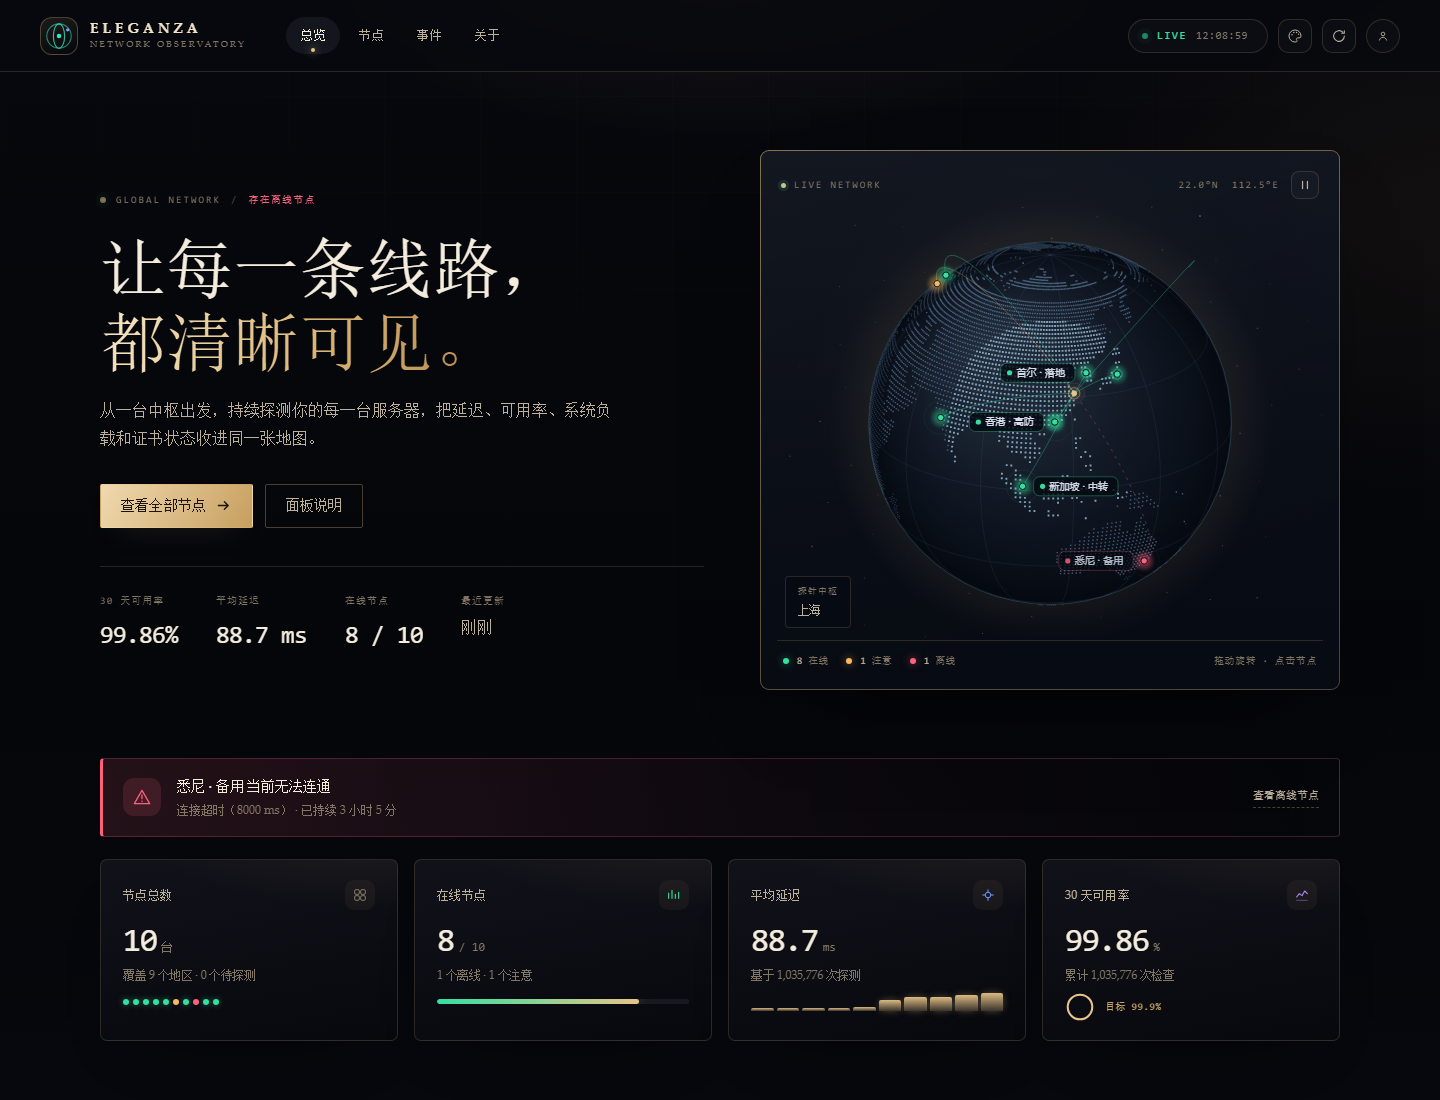
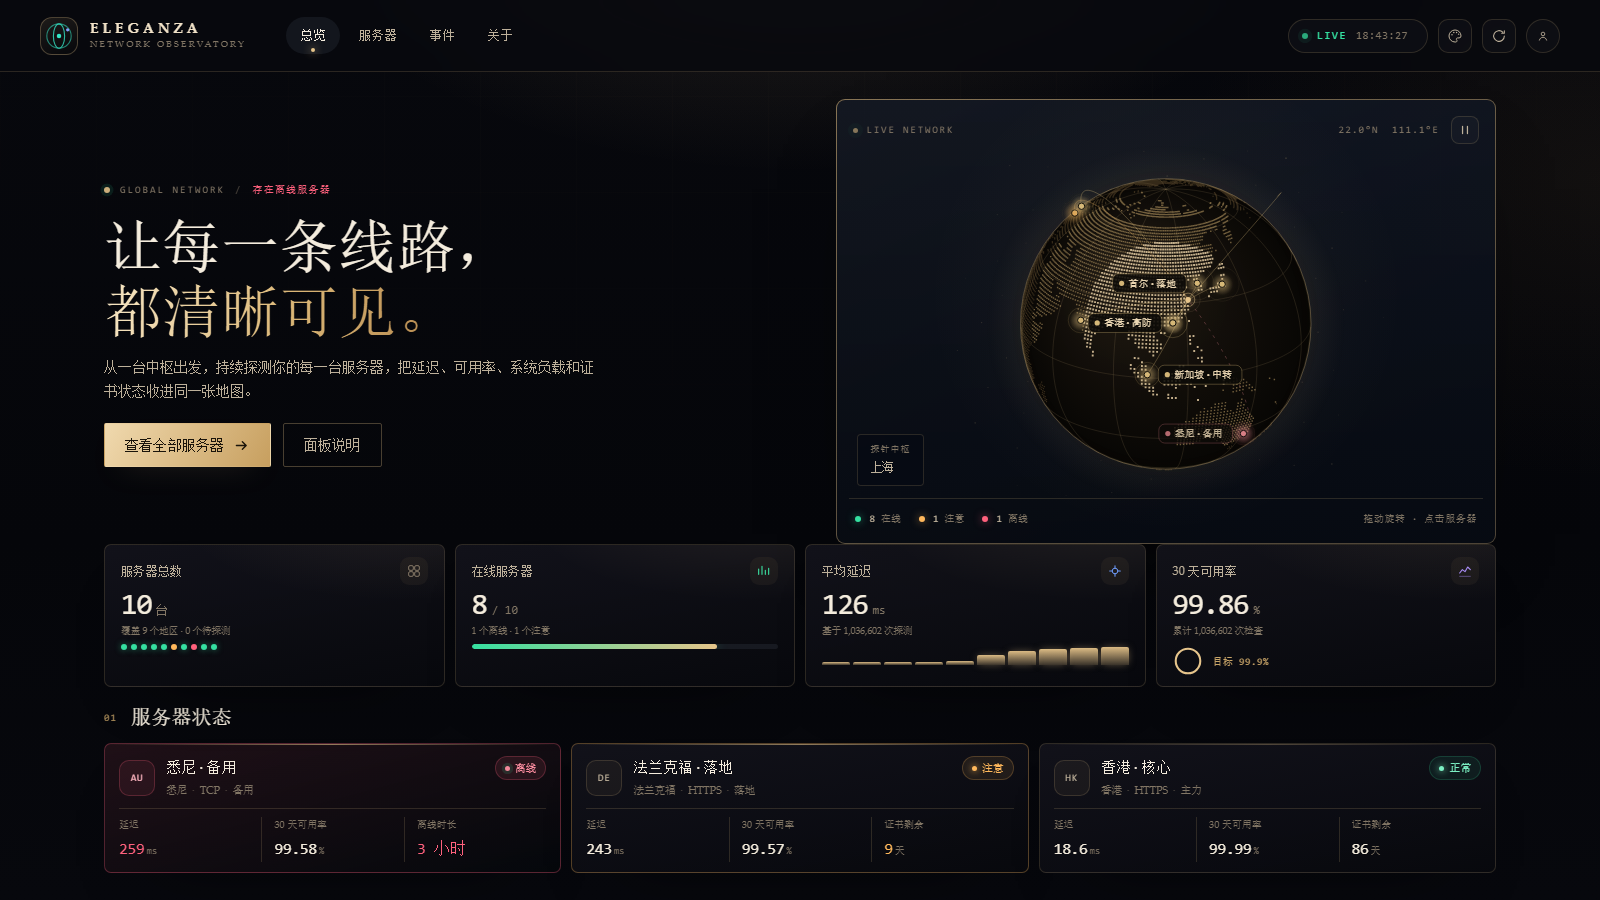
globe: match visual style presets and accent

diff --git a/public/globe.js b/public/globe.js
@@ -13,6 +13,65 @@ const STATUS_TEXT = {
   pending: '待探测',
 };
 
+const GLOBE_PALETTES = {
+  cosmos: {
+    starsRgb: '196, 214, 240',
+    starAlpha: 1,
+    ocean: ['rgba(30, 50, 76, 0.55)', 'rgba(12, 22, 38, 0.72)', 'rgba(4, 8, 16, 0.92)'],
+    rim: 'rgba(120, 190, 210, 0.22)',
+    graticule: 'rgba(120, 158, 198, 0.09)',
+    graticuleRim: 'rgba(120, 158, 198, 0.05)',
+    land: ['rgba(100, 140, 182, 0.3)', 'rgba(128, 170, 212, 0.48)', 'rgba(172, 214, 242, 0.72)'],
+    labelBg: 'rgba(5, 10, 18, 0.82)',
+    labelText: 'rgba(226, 236, 248, 0.94)',
+    markerStroke: 'rgba(4, 10, 18, 0.9)',
+    font: '10px "Inter", "PingFang SC", "Microsoft YaHei", sans-serif',
+    status: STATUS_COLOR,
+  },
+  paper: {
+    starsRgb: '139, 112, 76',
+    starAlpha: 0.3,
+    ocean: ['rgba(252, 247, 236, 0.95)', 'rgba(242, 231, 211, 0.96)', 'rgba(226, 209, 181, 0.98)'],
+    rim: 'rgba(126, 96, 58, 0.35)',
+    graticule: 'rgba(126, 96, 58, 0.13)',
+    graticuleRim: 'rgba(126, 96, 58, 0.08)',
+    land: ['rgba(136, 111, 78, 0.34)', 'rgba(98, 77, 52, 0.5)', 'rgba(66, 51, 34, 0.7)'],
+    labelBg: 'rgba(253, 249, 241, 0.94)',
+    labelText: 'rgba(50, 41, 29, 0.96)',
+    markerStroke: 'rgba(251, 247, 239, 0.95)',
+    font: '10px "Iowan Old Style", "Palatino Linotype", Georgia, "Songti SC", serif',
+    status: { online: '#2f8f63', warning: '#b77a20', offline: '#c04a58', pending: '#6b6bb0' },
+  },
+  terminal: {
+    starsRgb: '108, 255, 174',
+    starAlpha: 0.7,
+    ocean: ['rgba(4, 20, 12, 0.9)', 'rgba(1, 11, 6, 0.96)', 'rgba(0, 4, 2, 0.99)'],
+    rim: 'rgba(96, 255, 158, 0.3)',
+    graticule: 'rgba(96, 240, 150, 0.12)',
+    graticuleRim: 'rgba(96, 240, 150, 0.07)',
+    land: ['rgba(54, 140, 86, 0.32)', 'rgba(82, 225, 140, 0.48)', 'rgba(158, 255, 194, 0.78)'],
+    labelBg: 'rgba(1, 10, 5, 0.9)',
+    labelText: 'rgba(190, 255, 214, 0.96)',
+    markerStroke: 'rgba(1, 9, 4, 0.95)',
+    font: '10px "JetBrains Mono", "SFMono-Regular", Consolas, monospace',
+    status: { online: '#7cffb2', warning: '#ffd166', offline: '#ff6b7d', pending: '#5eead4' },
+  },
+  gilded: {
+    starsRgb: '232, 200, 146',
+    starAlpha: 0.45,
+    ocean: ['rgba(34, 27, 18, 0.9)', 'rgba(18, 14, 9, 0.96)', 'rgba(7, 6, 4, 0.99)'],
+    rim: 'rgba(230, 196, 138, 0.32)',
+    graticule: 'rgba(230, 196, 138, 0.12)',
+    graticuleRim: 'rgba(230, 196, 138, 0.07)',
+    land: ['rgba(142, 112, 66, 0.34)', 'rgba(208, 173, 112, 0.5)', 'rgba(246, 221, 176, 0.78)'],
+    labelBg: 'rgba(13, 11, 8, 0.9)',
+    labelText: 'rgba(246, 225, 188, 0.96)',
+    markerStroke: 'rgba(10, 8, 6, 0.95)',
+    font: '10px "Cormorant Garamond", "Iowan Old Style", Georgia, serif',
+    status: { online: '#d6b878', warning: '#e0a85a', offline: '#d97f86', pending: '#b7a6d9' },
+  },
+};
+
 const DEG = Math.PI / 180;
 
 function decodeLand() {
@@ -106,6 +165,8 @@ export class Globe {
     this.ctx = canvas.getContext('2d');
     this.accent = options.accent || '#34e6c6';
     this.accentRgb = hexToRgb(this.accent);
+    this.style = options.style || 'cosmos';
+    this.palette = GLOBE_PALETTES[this.style] || GLOBE_PALETTES.cosmos;
     this.hub = options.hub || { lat: 31.23, lon: 121.47, name: '探针中枢' };
     this.onSelect = options.onSelect || (() => {});
     this.onCoordChange = options.onCoordChange || (() => {});
@@ -117,9 +178,9 @@ export class Globe {
     this.arcs = [];
     this.land = decodeLand();
     this.landBuckets = [
-      { coords: new Float32Array(this.land.length * 2), count: 0, size: 1.25, fill: 'rgba(100, 140, 182, 0.3)' },
-      { coords: new Float32Array(this.land.length * 2), count: 0, size: 1.45, fill: 'rgba(128, 170, 212, 0.48)' },
-      { coords: new Float32Array(this.land.length * 2), count: 0, size: 1.9, fill: 'rgba(172, 214, 242, 0.72)' },
+      { coords: new Float32Array(this.land.length * 2), count: 0, size: 1.25, fill: this.palette.land[0] },
+      { coords: new Float32Array(this.land.length * 2), count: 0, size: 1.45, fill: this.palette.land[1] },
+      { coords: new Float32Array(this.land.length * 2), count: 0, size: 1.9, fill: this.palette.land[2] },
     ];
     this.stars = Array.from({ length: 90 }, (_, index) => {
       const angle = (index * 2.399963) % (Math.PI * 2);
@@ -209,6 +270,20 @@ export class Globe {
   setAccent(hex) {
     this.accent = hex || '#34e6c6';
     this.accentRgb = hexToRgb(this.accent);
+    if (this.width && this.height) this.render(performance.now(), 0);
+  }
+
+  setTheme(style) {
+    this.style = GLOBE_PALETTES[style] ? style : 'cosmos';
+    this.palette = GLOBE_PALETTES[this.style];
+    this.landBuckets.forEach((bucket, index) => {
+      bucket.fill = this.palette.land[index];
+    });
+    if (this.width && this.height) this.render(performance.now(), 0);
+  }
+
+  statusColor(status) {
+    return this.palette.status?.[status] || STATUS_COLOR[status] || STATUS_COLOR.online;
   }
 
   setPaused(value) {
@@ -306,8 +381,8 @@ export class Globe {
 
     // distant stars
     for (const star of this.stars) {
-      const alpha = star.alpha * (0.65 + 0.35 * Math.sin(now / 1400 + star.ox * 9));
-      ctx.fillStyle = `rgba(196, 214, 240, ${alpha.toFixed(3)})`;
+      const alpha = star.alpha * this.palette.starAlpha * (0.65 + 0.35 * Math.sin(now / 1400 + star.ox * 9));
+      ctx.fillStyle = `rgba(${this.palette.starsRgb}, ${alpha.toFixed(3)})`;
       ctx.fillRect(cx + star.ox * r * 1.55, cy + star.oy * r * 1.55, star.size, star.size);
     }
 
@@ -323,9 +398,9 @@ export class Globe {
 
     // ocean
     const ocean = ctx.createRadialGradient(cx - r * 0.34, cy - r * 0.4, r * 0.08, cx, cy, r);
-    ocean.addColorStop(0, 'rgba(30, 50, 76, 0.55)');
-    ocean.addColorStop(0.55, 'rgba(12, 22, 38, 0.72)');
-    ocean.addColorStop(1, 'rgba(4, 8, 16, 0.92)');
+    ocean.addColorStop(0, this.palette.ocean[0]);
+    ocean.addColorStop(0.55, this.palette.ocean[1]);
+    ocean.addColorStop(1, this.palette.ocean[2]);
     ctx.beginPath();
     ctx.arc(cx, cy, r, 0, Math.PI * 2);
     ctx.fillStyle = ocean;
@@ -333,7 +408,7 @@ export class Globe {
 
     // rim
     ctx.save();
-    ctx.strokeStyle = 'rgba(120, 190, 210, 0.22)';
+    ctx.strokeStyle = this.palette.rim;
     ctx.lineWidth = 1;
     ctx.shadowColor = `rgba(${this.accentRgb}, 0.35)`;
     ctx.shadowBlur = 18;
@@ -385,7 +460,7 @@ export class Globe {
 
   drawGraticule(geo) {
     const ctx = this.ctx;
-    ctx.strokeStyle = 'rgba(120, 158, 198, 0.09)';
+    ctx.strokeStyle = this.palette.graticule;
     ctx.lineWidth = 1;
     for (let lon = -180; lon < 180; lon += 30) {
       ctx.beginPath();
@@ -423,7 +498,7 @@ export class Globe {
       }
       ctx.stroke();
     }
-    ctx.strokeStyle = 'rgba(120, 158, 198, 0.05)';
+    ctx.strokeStyle = this.palette.graticuleRim;
     ctx.beginPath();
     ctx.arc(geo.cx, geo.cy, geo.r * 0.995, 0, Math.PI * 2);
     ctx.stroke();
@@ -432,7 +507,7 @@ export class Globe {
   drawArcs(geo, now, dt) {
     const ctx = this.ctx;
     for (const arc of this.arcs) {
-      const color = STATUS_COLOR[arc.status] || STATUS_COLOR.online;
+      const color = this.statusColor(arc.status);
       const points = arc.points;
       ctx.save();
       ctx.lineWidth = 1;
@@ -495,7 +570,7 @@ export class Globe {
       const visible = point.z > 0.02;
       this.markers.push({ id: node.id, x: point.x, y: point.y, z: point.z, visible, node });
       if (!visible) continue;
-      const color = STATUS_COLOR[node.status] || STATUS_COLOR.online;
+      const color = this.statusColor(node.status);
       const depth = Math.min(1, Math.max(0.15, point.z));
       const isHovered = this.hovered === node.id;
       const isSelected = this.selectedId === node.id;
@@ -527,7 +602,7 @@ export class Globe {
       ctx.beginPath();
       ctx.arc(point.x, point.y, isHovered || isSelected ? 4.4 : 3.2, 0, Math.PI * 2);
       ctx.fill();
-      ctx.strokeStyle = 'rgba(4, 10, 18, 0.9)';
+      ctx.strokeStyle = this.palette.markerStroke;
       ctx.lineWidth = 1;
       ctx.stroke();
       ctx.restore();
@@ -546,7 +621,7 @@ export class Globe {
 
     labels.sort((a, b) => b.priority - a.priority);
     const boxes = [];
-    ctx.font = '10px "Inter", "PingFang SC", "Microsoft YaHei", sans-serif';
+    ctx.font = this.palette.font;
     ctx.textBaseline = 'middle';
     for (const label of labels) {
       const text = label.node.name;
@@ -566,7 +641,7 @@ export class Globe {
       ctx.save();
       ctx.globalAlpha = 0.7 + 0.3 * label.z;
       roundRect(ctx, x, y, boxWidth, boxHeight, 6);
-      ctx.fillStyle = 'rgba(5, 10, 18, 0.82)';
+      ctx.fillStyle = this.palette.labelBg;
       ctx.fill();
       ctx.strokeStyle = `${label.color}55`;
       ctx.lineWidth = 1;
@@ -575,7 +650,7 @@ export class Globe {
       ctx.beginPath();
       ctx.arc(x + 9, y + boxHeight / 2, 2.6, 0, Math.PI * 2);
       ctx.fill();
-      ctx.fillStyle = 'rgba(226, 236, 248, 0.94)';
+      ctx.fillStyle = this.palette.labelText;
       ctx.fillText(text, x + 16, y + boxHeight / 2 + 0.5);
       ctx.restore();
     }

diff --git a/public/appearance.css b/public/appearance.css
@@ -1719,13 +1719,30 @@ html[data-style="paper"] .daily-bars i {
 }
 
 html[data-style="paper"] .globe-panel {
+  --text: #2c251c;
+  --text-2: #5b5143;
+  --text-3: #8b7e6b;
+  --line: rgba(74, 58, 38, 0.14);
+  --line-strong: rgba(74, 58, 38, 0.24);
   border-radius: 4px;
   border-color: rgba(74, 58, 38, 0.3);
-  box-shadow: 0 24px 50px -38px rgba(24, 16, 8, 0.7);
+  background:
+    linear-gradient(180deg, rgba(255, 252, 246, 0.97), rgba(244, 234, 218, 0.98)) padding-box,
+    linear-gradient(155deg, rgba(160, 106, 52, 0.36), rgba(196, 160, 108, 0.18) 46%, rgba(74, 58, 38, 0.08) 100%) border-box;
+  box-shadow: 0 24px 50px -38px rgba(24, 16, 8, 0.5);
 }
 
 html[data-style="paper"] .globe-badge {
   border-radius: 2px;
+  background: rgba(255, 252, 246, 0.9);
+  border-color: rgba(74, 58, 38, 0.24);
+}
+
+html[data-style="paper"] .globe-tooltip {
+  border-radius: 2px;
+  background: rgba(255, 252, 246, 0.96);
+  border-color: rgba(74, 58, 38, 0.26);
+  box-shadow: 0 18px 40px -24px rgba(60, 42, 24, 0.55);
 }
 
 html[data-style="paper"] .status-banner {

diff --git a/public/app.js b/public/app.js
@@ -946,6 +946,7 @@ function setupGlobe() {
   if (!canvas) return;
   globe = new Globe(canvas, {
     hub: { lat: 31.23, lon: 121.47, name: '探针中枢' },
+    style: state.prefs.style,
     accent: accentColor(state.prefs),
     onSelect: (id) => openDrawer(id),
     onCoordChange: (lat, lon) => {
@@ -1056,6 +1057,7 @@ function applyAppearance(preferences, { persist = true, forceMotion = false } = 
   if (persist) savePreferences(next);
   syncAppearanceControls();
   if (globe) {
+    globe.setTheme(next.style);
     globe.setAccent(accentColor(next));
     if (forceMotion || previousMotion !== next.motion) setGlobeMotion(next.motion);
   }

diff --git a/README.md b/README.md
@@ -78,6 +78,7 @@ Eleganza 把自己定位成 **只读的观测面板**，不接管代理协议、
 - **通知**：故障 / 恢复可推送通用 Webhook 或 Telegram。
 - **账号系统**：首次启动初始化管理员，支持管理员 / 成员、登录会话、创建与禁用账号、重置密码；管理员可在服务器详情中修改显示名称；可选开放注册。
 - **整体风格**：右上角调色板切换「深空 / 纸境 / 终端 / 鎏金」四套完整视觉风格，连带字体、卡片形状、背景、弹窗和详情抽屉一起变化；另有 7 种强调色、密度、光效与动效。
+- **地球跟随主题**：3D 点阵地球的大陆、海洋、网格、星点、标记、标签底图、字体和面板底色都会随当前风格与强调色实时切换。
 - **无对外接口**：不提供 REST API / MCP，面板只通过同源页面读取数据；Agent 上报使用独立 agentKey。
 - **能屈能伸**：`npm run demo` 直接看演示；正式环境一个 `config.json` + 一条 `node server.mjs` 即可。
 
